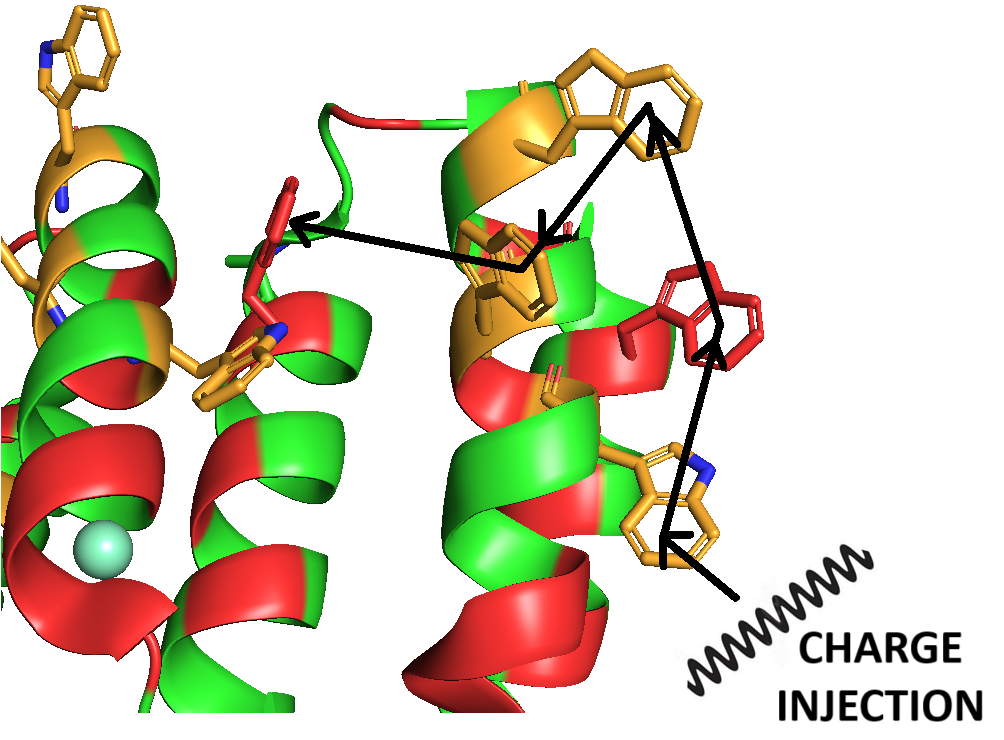
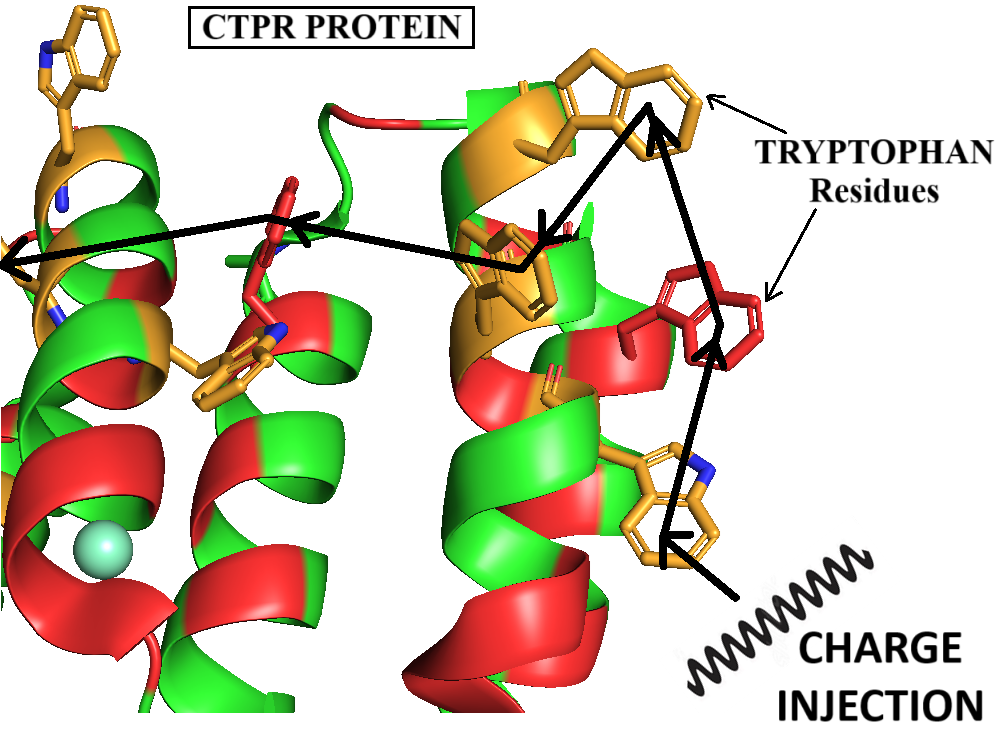
added CTPR spain project graphical abstract

diff --git a/index.html b/index.html
@@ -131,8 +131,8 @@ scans, I obtained time series data of mRNA expressions by different nodes in a g
 
       <!-- ----------- (2) CTPR SPAIN PROJECT --------------------------------------------------------------- -->
       <div class="research-item">
-        <a href="images/Charge-injection-Copy.png">
-          <img src="images/Charge-injection-Copy.png" alt="Charge conduction through proteins" class="research-img">
+        <a href="images/ctpr_spain_project_graphical_abstract.png">
+          <img src="images/ctpr_spain_project_graphical_abstract.png" alt="CTPR Spain project Graphical abnstract" class="research-img">
         </a>
 
         <div class="research-description">
